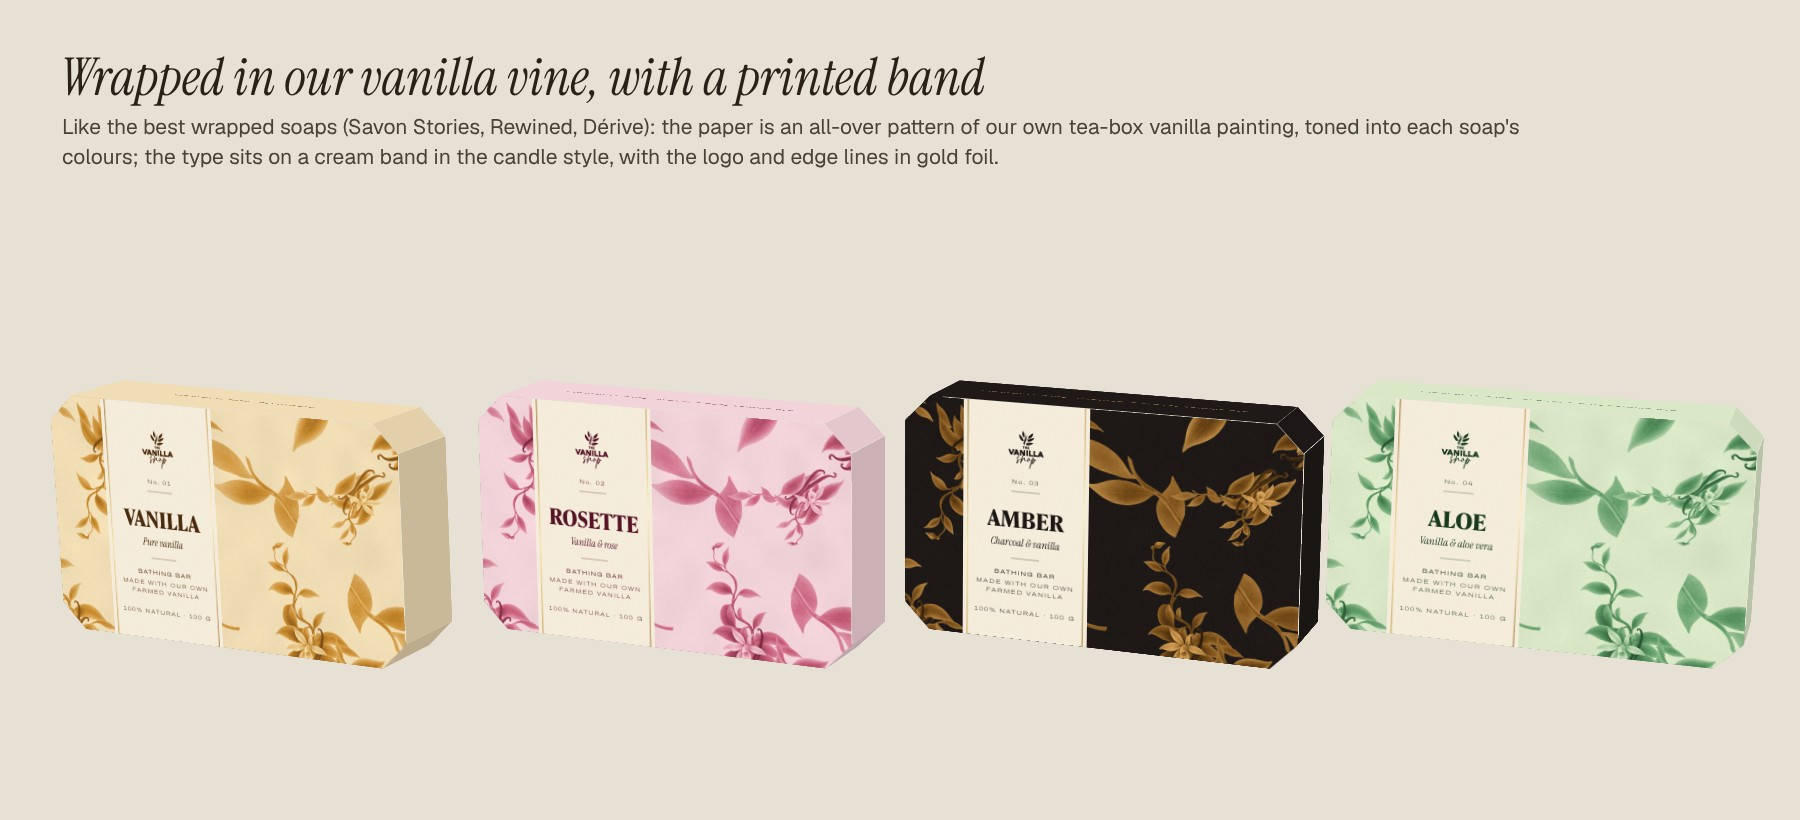
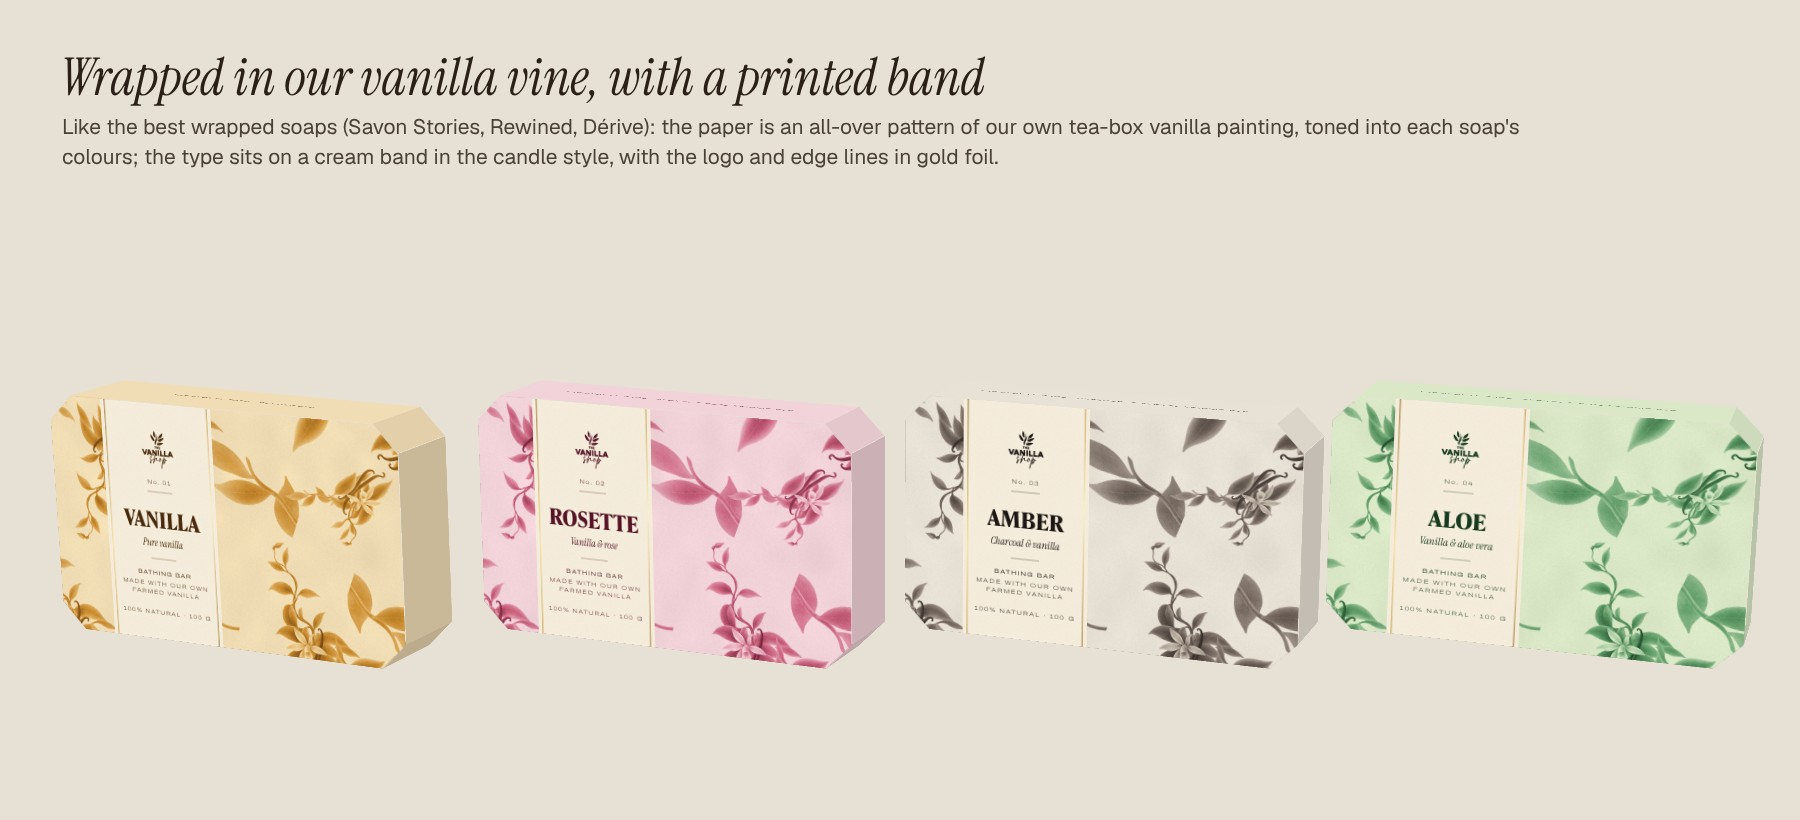
Soap vine wrap: Ebony & Amber on a light ash ground with charcoal vine
Claude-Session: https://claude.ai/code/session_01Psd6wLDi15Gf4F1fXEFmxS

Changed region(s): [[0.4978, 0.4573, 0.7467, 0.8232]]

diff --git a/vanilla-shop/studies/soap/vine-wrap/octo6.py b/vanilla-shop/studies/soap/vine-wrap/octo6.py
@@ -136,7 +136,7 @@ def front(opt,k):
         body+=T(x+0.6,H-11,1.8,'100% natural · made exclusively with our own farmed vanilla','G',sub)+T(W-12,H-10.6,4.4,'100 g','IS',sub,'end')
     return (f'<svg xmlns="http://www.w3.org/2000/svg" viewBox="0 0 {W} {H}" width="100%" height="100%"><defs>{FOIL}<clipPath id="oc"><path d="{octa()}"/></clipPath></defs>'
             f'<g clip-path="url(#oc)">{body}</g></svg>')
-WALLM2={'vanilla':'#F1DDB5','rosette':'#F2D3D9','ebony':'#1F1A18','aloe':'#DAE8C7'}
+WALLM2={'vanilla':'#F1DDB5','rosette':'#F2D3D9','ebony':'#E8E1D6','aloe':'#DAE8C7'}
 WALLM={'vanilla':'#E8B65E','rosette':'#E58BA0','ebony':'#2A2522','aloe':'#86B98A'}
 def wallcol(opt,k):
     if opt=='Q': return WALLM2[k]
@@ -148,7 +148,7 @@ def box(opt,k,s=3.0,ry=-24,rx=-14):
     shade=[0.0,0.06,0.16,0.22,0.3,0.3,0.22,0.06]
     for i in range(8):
         (px,py),(qx,qy)=pts[i],pts[(i+1)%8]; L=math.hypot(qx-px,qy-py); a=math.degrees(math.atan2(qy-py,qx-px))
-        mx,my=(px+qx)/2*s,(py+qy)/2*s; col=wallcol(opt,k); dk=BAND[k][3] if opt=='Q' and k!='ebony' else (INKM[k] if opt in 'MNPQ' else (SOAPS[k]['dk'] if opt not in 'BDG' else '#FFF4DE'))
+        mx,my=(px+qx)/2*s,(py+qy)/2*s; col=wallcol(opt,k); dk=BAND[k][3] if opt=='Q' else (INKM[k] if opt in 'MNPQ' else (SOAPS[k]['dk'] if opt not in 'BDG' else '#FFF4DE'))
         txt=(f'<div style="position:absolute;inset:0;display:flex;align-items:center;justify-content:center;font:{1.9*s}px AE;letter-spacing:{0.5*s}px;color:{dk};opacity:.8">THE VANILLA SHOP · {SOAPS[k]["kind"]}</div>' if i==0 else '')
         faces+=(f'<div style="position:absolute;left:{-L*s/2}px;top:{-D*s/2}px;width:{L*s}px;height:{D*s}px;background:{col};'
                 f'transform:translate3d({mx}px,{my}px,0) rotateZ({a}deg) rotateX(-90deg)">{txt}<div style="position:absolute;inset:0;background:rgba(0,0,0,{shade[i]})"></div></div>')

diff --git a/vanilla-shop/studies/soap/vine-wrap/wrap.py b/vanilla-shop/studies/soap/vine-wrap/wrap.py
@@ -6,7 +6,7 @@ G='/home/user/PersonalEventPlanner305App/vanilla-shop/plates/generated/'
 O='/tmp/claude-0/-home-user-PersonalEventPlanner305App/0712b206-ea71-562e-9a83-45f8f096455f/scratchpad/soap/b2/'
 SRC=['v6-vine.png','v7-vine-upright.png','v6-sprig.png','v7-vine-upright-b.png','v8-crop-vine-trail.png']
 RAMP={'vanilla':('#5C3410','#C98A2E','#F6DFAE','#F1DDB5'),'rosette':('#5E1429','#C9607C','#F8D6DE','#F2D3D9'),
-      'ebony':('#0E0C0B','#7A4E1A','#E2AE62','#1F1A18'),'aloe':('#163A1E','#5E9A66','#DDEDCB','#DAE8C7')}
+      'ebony':('#25201D','#6E625A','#D9CDBF','#E8E1D6'),'aloe':('#163A1E','#5E9A66','#DDEDCB','#DAE8C7')}
 def hx(c): return np.array([int(c[i:i+2],16) for i in (1,3,5)],np.float32)
 def tone(im,dk,md,lt):
     a=np.asarray(im).astype(np.float32); L=(0.3*a[...,0]+0.59*a[...,1]+0.11*a[...,2])/255
